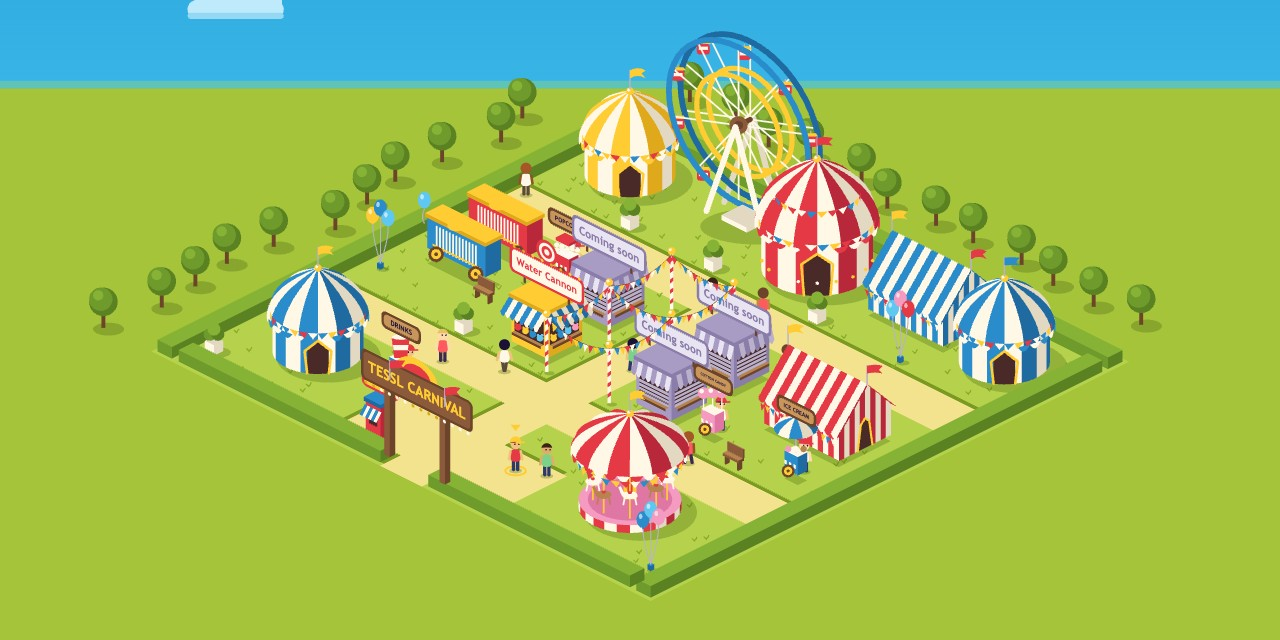
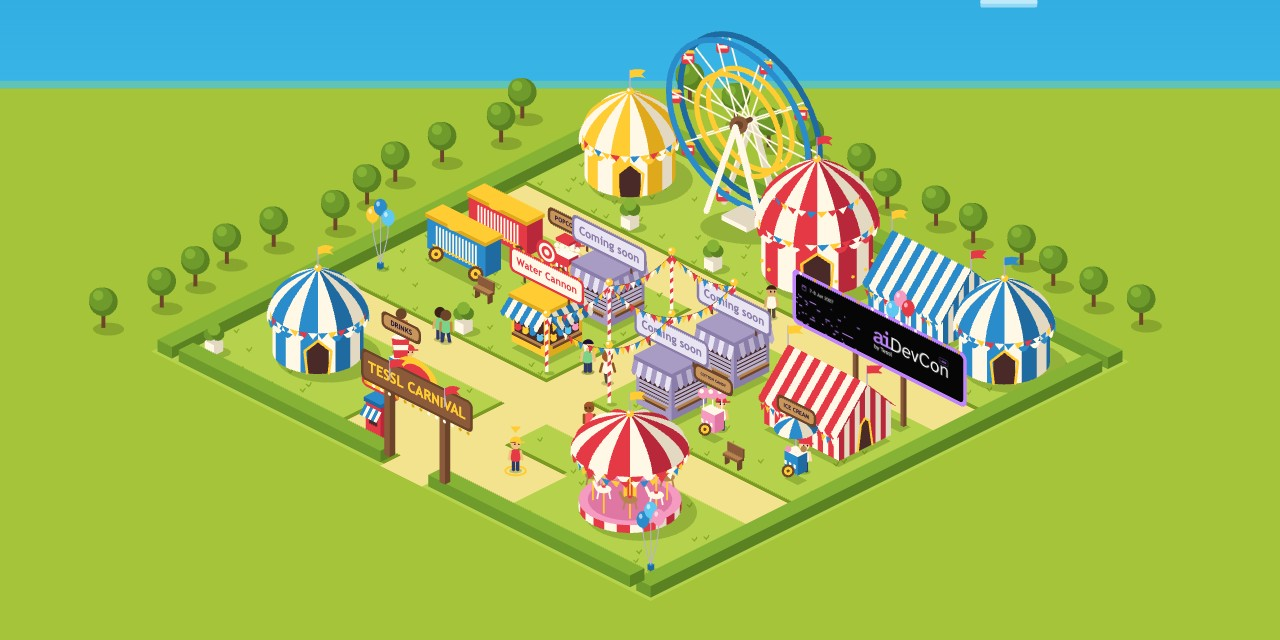
Bring the billboard back, advertising AI DevCon London 2027 (#49)
* Bring the billboard back, advertising AI DevCon London 2027

* Give the billboard a purple frame to match the London banner

---------

diff --git a/src/midway/render.ts b/src/midway/render.ts
@@ -1,4 +1,5 @@
 import { canvasFont, theme } from '../carnival';
+import bannerUrl from './aidevcon-banner.png';
 import { palette } from './palette';
 import {
   CART_KINDS,
@@ -1103,6 +1104,108 @@ function balloons(ctx: Ctx, prop: Prop, t: number) {
   }
 }
 
+/** How high a billboard's sign stands, to the bottom of its board. */
+const BILLBOARD_HEIGHT = 40;
+
+/**
+ * The billboard's sign, in plane-local pixels: the banner plus its purple frame.
+ * The board keeps the banner image's shape, 4 by 1.
+ */
+const BILLBOARD_SIGN = { width: 144, height: 36, frame: 3 };
+
+let banner: HTMLImageElement | undefined;
+
+/** The AI DevCon banner, loaded the first time the billboard is drawn. */
+function bannerImage(): HTMLImageElement {
+  if (!banner) {
+    banner = new Image();
+    banner.src = bannerUrl;
+  }
+  return banner;
+}
+
+/** Where a billboard's posts stand, and the point its sign is centred on. */
+function billboardFrame(prop: Prop) {
+  const y = prop.y + 0.5;
+  const left = prop.x + 0.35;
+  const right = prop.x + prop.w - 0.35;
+  return { y, left, right, centre: at((left + right) / 2, y, BILLBOARD_HEIGHT + 18) };
+}
+
+/**
+ * The screen box a billboard covers, sign and posts, for clicks and fading.
+ * The sign sits on a slanted plane (see onPlane), so its corners are mapped
+ * with the same 0.894 and 0.447 factors.
+ */
+function billboardBounds(prop: Prop): Box {
+  const { y, left, right, centre } = billboardFrame(prop);
+  const halfWidth = BILLBOARD_SIGN.width / 2 + BILLBOARD_SIGN.frame;
+  const halfHeight = BILLBOARD_SIGN.height / 2 + BILLBOARD_SIGN.frame;
+  const feet = [at(left, y), at(right, y)];
+  return {
+    left: Math.min(centre[0] - 0.894 * halfWidth, ...feet.map((p) => p[0])),
+    right: Math.max(centre[0] + 0.894 * halfWidth, ...feet.map((p) => p[0])),
+    top: centre[1] - 0.447 * halfWidth - halfHeight,
+    bottom: Math.max(centre[1] + 0.447 * halfWidth + halfHeight, ...feet.map((p) => p[1])),
+  };
+}
+
+/** The AI DevCon billboard: the event banner, lit, on two posts. Clicking it opens the event page. */
+function billboard(ctx: Ctx, prop: Prop, t: number) {
+  const { y, left, right, centre } = billboardFrame(prop);
+  poly(
+    ctx,
+    rectPoints({ x: prop.x + 0.3, y: prop.y + 0.4, w: prop.w - 0.4, h: 0.5 }),
+    palette.shadow,
+  );
+  for (const px of [left, right]) {
+    box(
+      ctx,
+      px - 0.07,
+      y - 0.07,
+      0.14,
+      0.14,
+      0,
+      BILLBOARD_HEIGHT + 12,
+      palette.woodLight,
+      palette.wood,
+      palette.woodDark,
+    );
+  }
+  onPlane(ctx, centre, () => {
+    const { width, height, frame } = BILLBOARD_SIGN;
+    ctx.fillStyle = palette.purple;
+    ctx.beginPath();
+    ctx.roundRect(
+      -width / 2 - frame,
+      -height / 2 - frame,
+      width + frame * 2,
+      height + frame * 2,
+      5,
+    );
+    ctx.fill();
+    ctx.fillStyle = palette.ink;
+    ctx.beginPath();
+    ctx.roundRect(-width / 2, -height / 2, width, height, 3);
+    ctx.fill();
+    // Until the banner loads, the board stays plain.
+    const image = bannerImage();
+    if (image.complete && image.naturalWidth > 0) {
+      ctx.save();
+      ctx.clip();
+      ctx.imageSmoothingQuality = 'high';
+      ctx.drawImage(image, -width / 2, -height / 2, width, height);
+      ctx.restore();
+    }
+    for (let i = 0; i < 12; i++) {
+      ctx.fillStyle = Math.sin(t * 4 - i * 0.7) > 0 ? palette.cream : palette.goldShade;
+      ctx.beginPath();
+      ctx.arc(-width / 2 + 4 + i * ((width - 8) / 11), -height / 2 - 1.5, 1.2, 0, Math.PI * 2);
+      ctx.fill();
+    }
+  });
+}
+
 /** How high the top of a bunting pole is. */
 const POLE_HEIGHT = 44;
 
@@ -1468,10 +1571,12 @@ const PROP_HEIGHTS: Record<Prop['kind'], number> = {
   planter: 22,
   balloons: 52,
   'bunting-pole': 0,
+  billboard: BILLBOARD_HEIGHT + 40,
 };
 
 /** Roughly the screen box a prop is drawn in. */
 export function propBounds(prop: Prop): Box {
+  if (prop.kind === 'billboard') return billboardBounds(prop);
   const c = toScreen(prop.x + prop.w / 2, prop.y + prop.h / 2);
   const half = ((prop.w + prop.h) * 16) / 2;
   const footprint = ((prop.w + prop.h) * 8) / 2;
@@ -1667,6 +1772,8 @@ export function drawProp(ctx: Ctx, prop: Prop, t: number) {
       return balloons(ctx, prop, t);
     case 'bunting-pole':
       return buntingPole(ctx, prop);
+    case 'billboard':
+      return billboard(ctx, prop, t);
   }
 }
 

diff --git a/src/midway/midway.ts b/src/midway/midway.ts
@@ -68,6 +68,8 @@ const MOVE_KEYS: Record<string, [number, number]> = {
   KeyD: [1, 0],
 };
 const PLAY_KEYS = new Set(['KeyE', 'Enter', 'Space']);
+const DEVCON_URL =
+  'https://tessl.io/devcon?utm_source=carnival&utm_medium=midway-billboard&utm_campaign=tessl-carnival';
 const MIN_QUALITY = 0.5;
 
 /** Where the player stood when they last left the midway, for this page load. */
@@ -177,6 +179,13 @@ export function startMidway(canvas: HTMLCanvasElement, options: MidwayOptions): 
       })
       .sort((a, b) => b.x + b.y - (a.x + a.y))[0];
 
+  const billboardAt = (point: Point) =>
+    map.props.some((prop) => {
+      if (prop.kind !== 'billboard') return false;
+      const b = propBounds(prop);
+      return point.x >= b.left && point.x <= b.right && point.y >= b.top && point.y <= b.bottom;
+    });
+
   const walkToBooth = (booth: BoothSlot) => {
     player.path = pathToBooth(map, player, booth) ?? [];
     destination = player.path.at(-1);
@@ -185,6 +194,10 @@ export function startMidway(canvas: HTMLCanvasElement, options: MidwayOptions): 
   const onPointerDown = (event: PointerEvent) => {
     const point = toWorld(event);
     const booth = boothAt(point);
+    if (!booth && billboardAt(point)) {
+      window.open(DEVCON_URL, '_blank', 'noopener');
+      return;
+    }
     if (booth) {
       if (booth === inReach) play(booth);
       else walkToBooth(booth);
@@ -198,7 +211,7 @@ export function startMidway(canvas: HTMLCanvasElement, options: MidwayOptions): 
   };
   const onPointerMove = (event: PointerEvent) => {
     const point = toWorld(event);
-    canvas.style.cursor = boothAt(point) ? 'pointer' : 'default';
+    canvas.style.cursor = boothAt(point) || billboardAt(point) ? 'pointer' : 'default';
   };
 
   window.addEventListener('keydown', onKeyDown);

diff --git a/src/midway/world.ts b/src/midway/world.ts
@@ -47,7 +47,8 @@ export type PropKind =
   | 'bench'
   | 'planter'
   | 'balloons'
-  | 'bunting-pole';
+  | 'bunting-pole'
+  | 'billboard';
 
 export interface Prop extends Rect {
   kind: PropKind;
@@ -180,6 +181,8 @@ export function layoutMidway(gameIds: readonly string[]): MidwayMap {
 
   // Beside the booths: wagons and carts on the left, a tent and carts on the right.
   const side = FIRST_ROW_Y;
+  // A billboard for AI DevCon London, rising above the peaked tent on the right.
+  add('billboard', 19, side - 1, 3, 1);
   add('wagon', 2, side, 3, 1, 0);
   add('wagon', 2, side + 2, 3, 1, 1);
   add('cart', 6, side, 1, 1, 0);

diff --git a/src/midway/palette.ts b/src/midway/palette.ts
@@ -36,6 +36,7 @@ export const palette = {
   sky2: colors.water,
   pink: '#f59ac0',
   pinkShade: '#e076a4',
+  purple: '#c084fc',
   wood: colors.wood,
   woodDark: '#6b4429',
   woodLight: '#b7834f',
